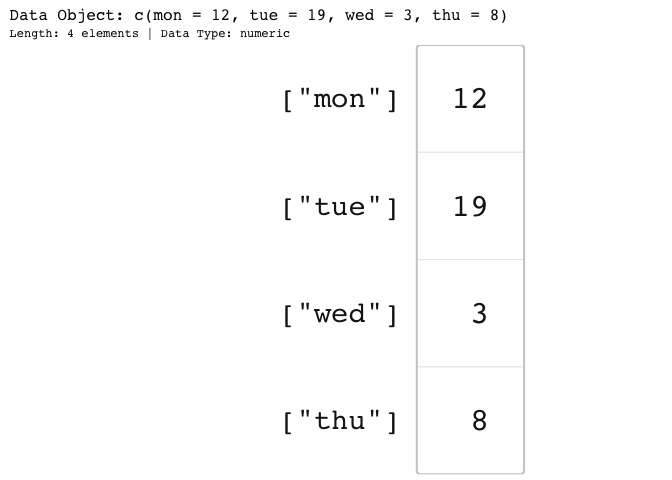
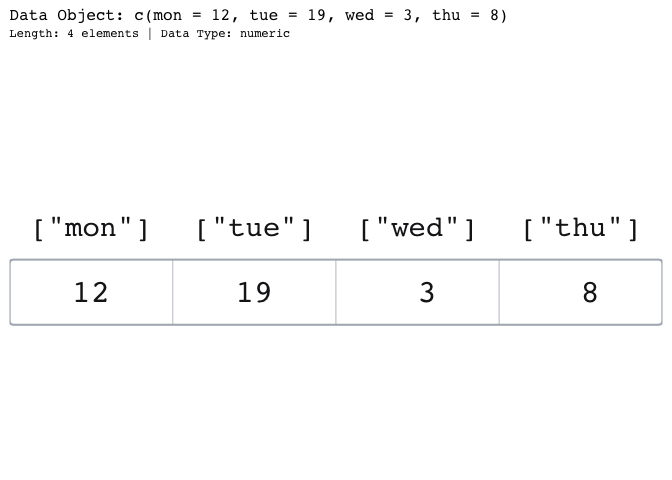
Show the named vector horizontally in the README

diff --git a/README.md b/README.md
@@ -56,7 +56,7 @@ the third value. Give the vector names and the label becomes the named
 accessor, `["mon"]`, because `x["mon"]` is now how you reach that value.
 
 ``` r
-paint_vector(c(mon = 12, tue = 19, wed = 3, thu = 8))
+paint_vector(c(mon = 12, tue = 19, wed = 3, thu = 8), layout = "horizontal")
 ```
 
 <img src="man/figures/README-vector-example-1.png" alt="A named numeric vector shown as one horizontal row of four cells holding 12, 19, 3, and 8, with the named accessor label for each day written under its cell: mon, tue, wed, and thu." width="100%" />
